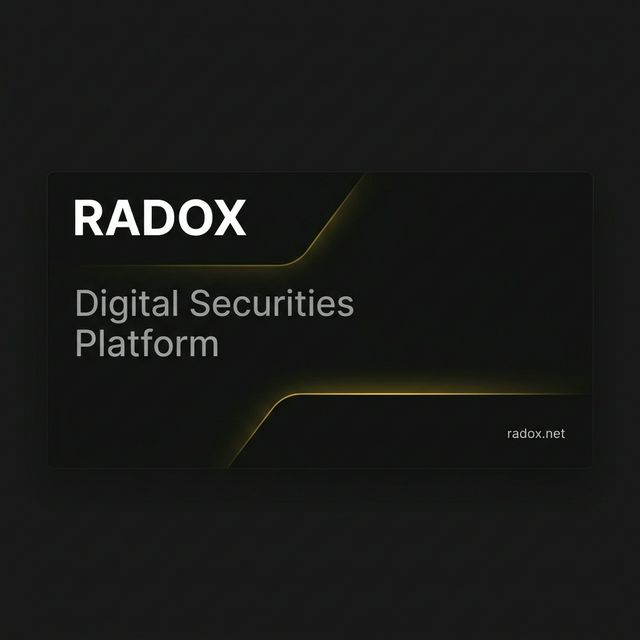
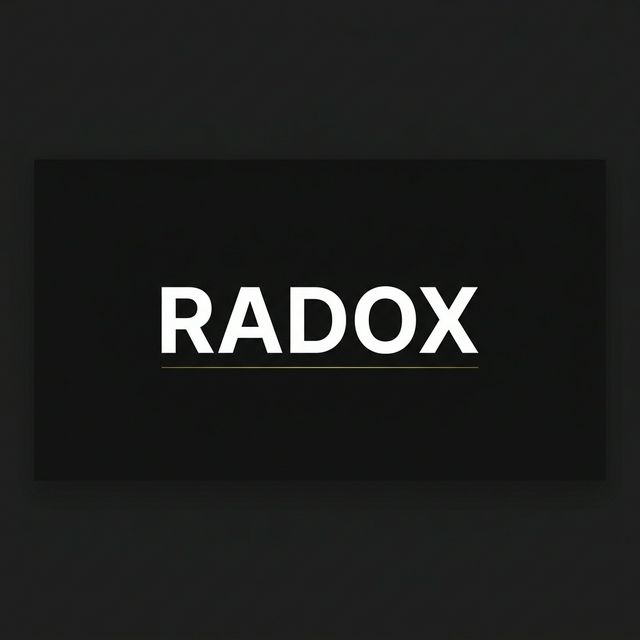
fix(landing): minimal OG image, neutral meta copy
- Replaced OG image with minimal RADOX wordmark (no securities language)
- Toned down all meta descriptions to 'tokenization infrastructure'
- Removed 'Digital Securities Platform' from twitter card

diff --git a/deploy/landing/index.html b/deploy/landing/index.html
@@ -4,13 +4,13 @@
   <meta charset="UTF-8">
   <meta name="viewport" content="width=device-width, initial-scale=1.0">
   <title>Radox — Digital Securities Platform</title>
-  <meta name="description" content="Fractional ownership of real-world assets, powered by blockchain. Fast, transparent, and open 24/7.">
+  <meta name="description" content="Radox — tokenization infrastructure for real-world assets on Stellar.">
   <meta name="theme-color" content="#161616">
   <link rel="icon" type="image/svg+xml" href="favicon.svg">
 
   <!-- Open Graph -->
-  <meta property="og:title" content="Radox — Accessible Assets to Everyone, Everywhere">
-  <meta property="og:description" content="Fractional ownership of real-world assets, powered by blockchain. Fast, transparent, and open 24/7.">
+  <meta property="og:title" content="Radox">
+  <meta property="og:description" content="Tokenization infrastructure for real-world assets on Stellar.">
   <meta property="og:type" content="website">
   <meta property="og:url" content="https://radox.net">
   <meta property="og:image" content="https://radox.net/og-image.png">
@@ -19,8 +19,8 @@
 
   <!-- Twitter Card -->
   <meta name="twitter:card" content="summary_large_image">
-  <meta name="twitter:title" content="Radox — Digital Securities Platform">
-  <meta name="twitter:description" content="Fractional ownership of real-world assets, powered by blockchain.">
+  <meta name="twitter:title" content="Radox">
+  <meta name="twitter:description" content="Tokenization infrastructure for real-world assets on Stellar.">
   <meta name="twitter:image" content="https://radox.net/og-image.png">
 
   <!-- Fonts -->